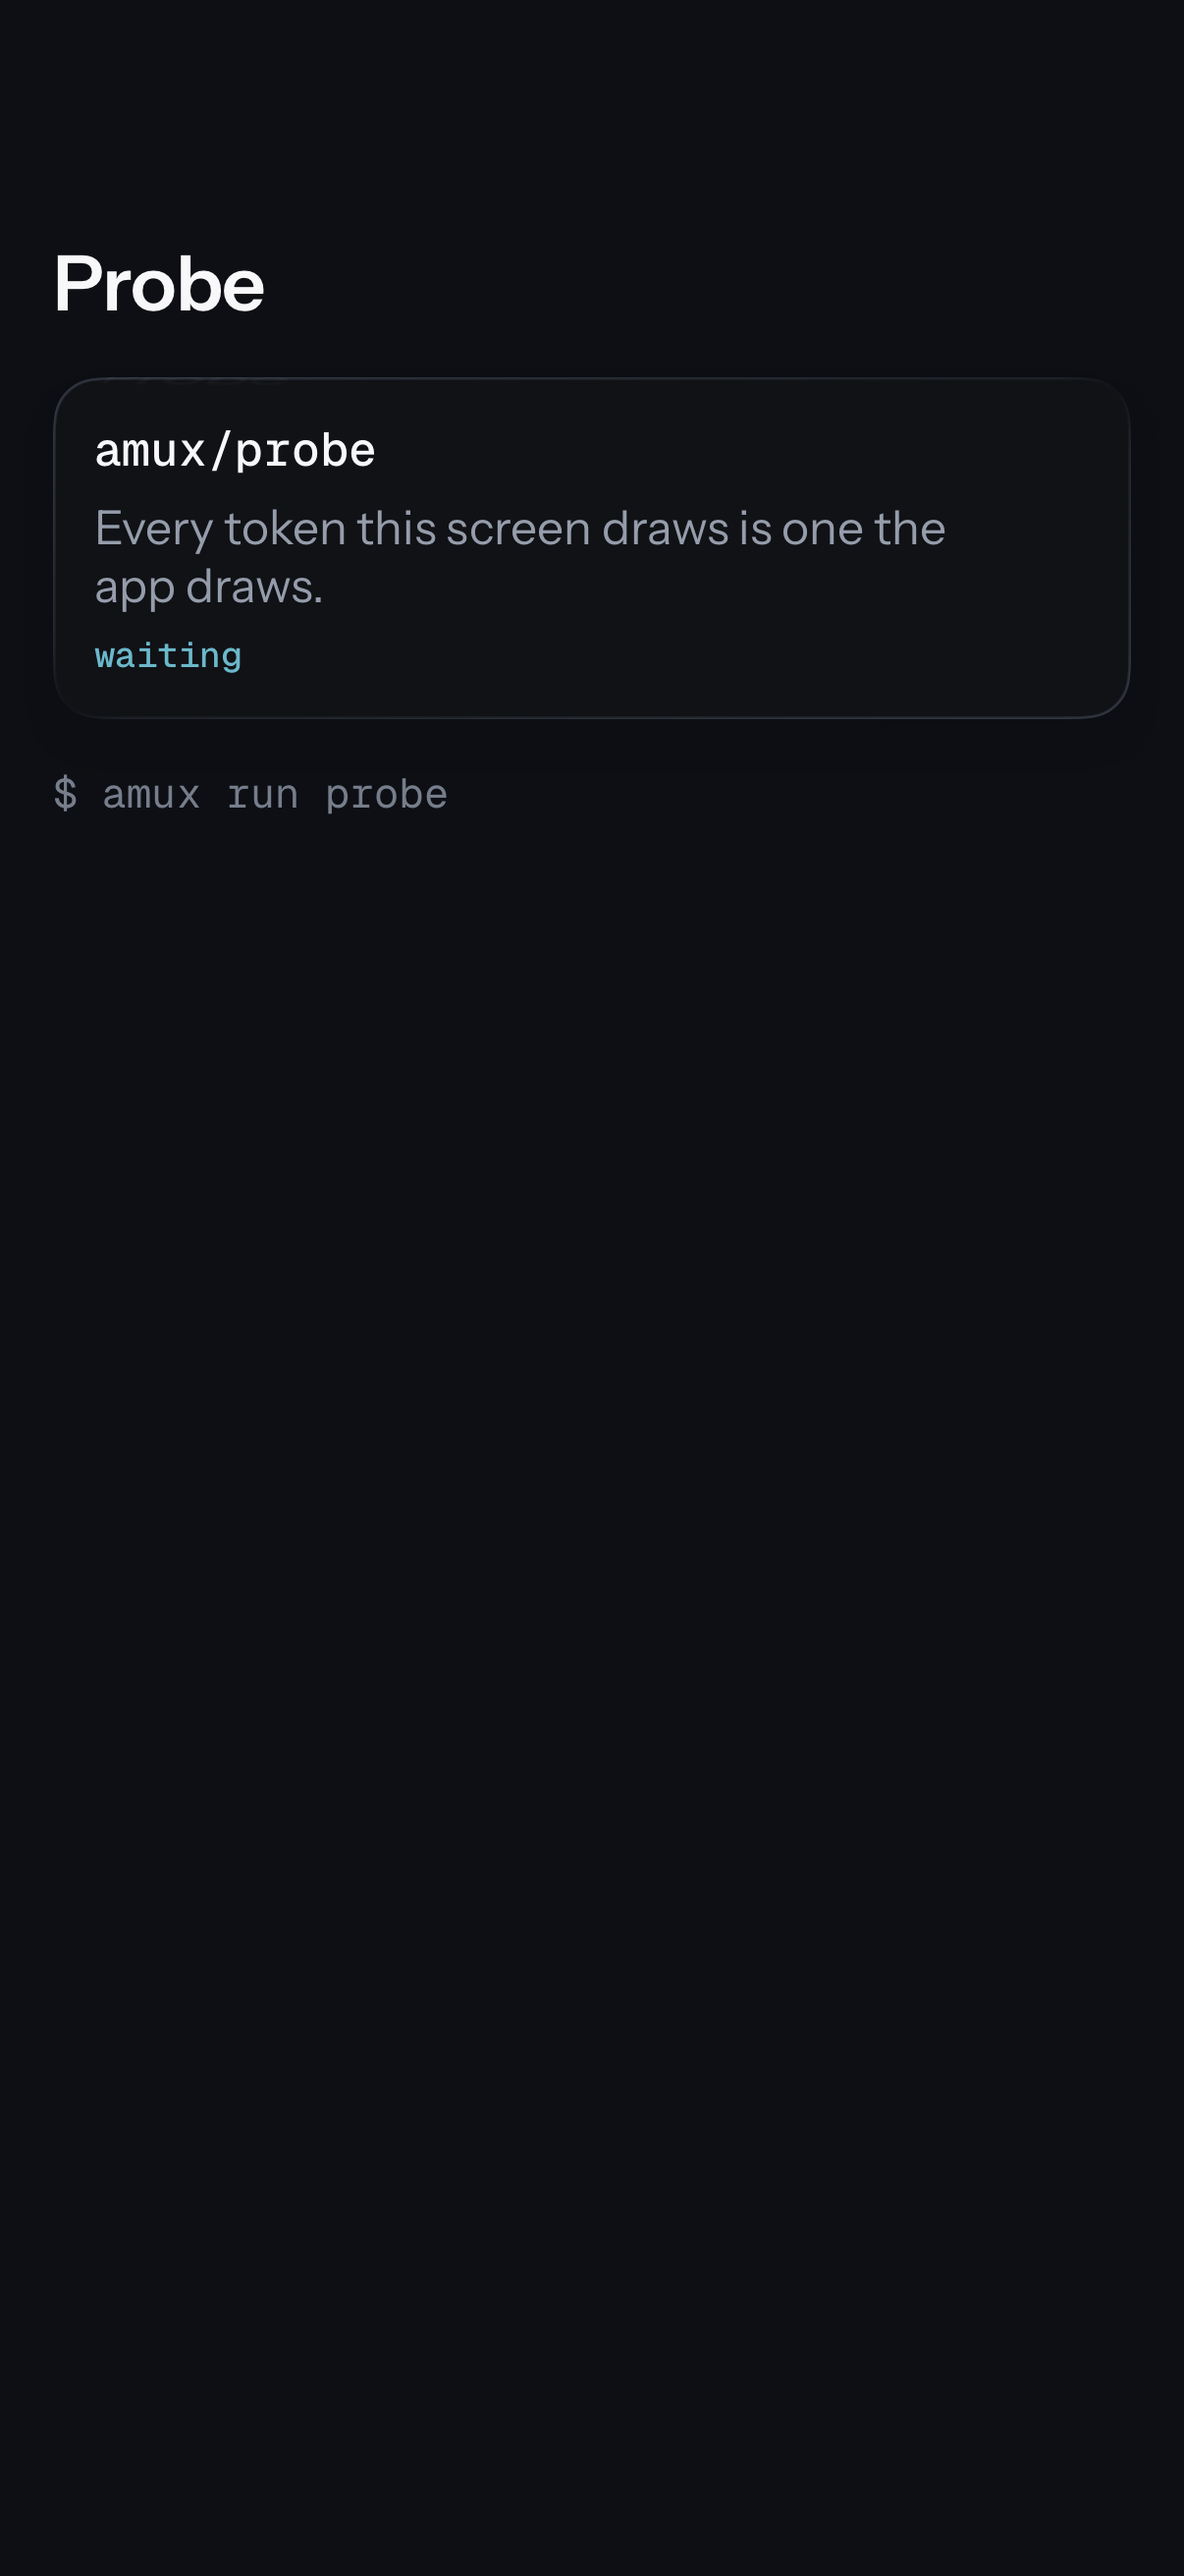
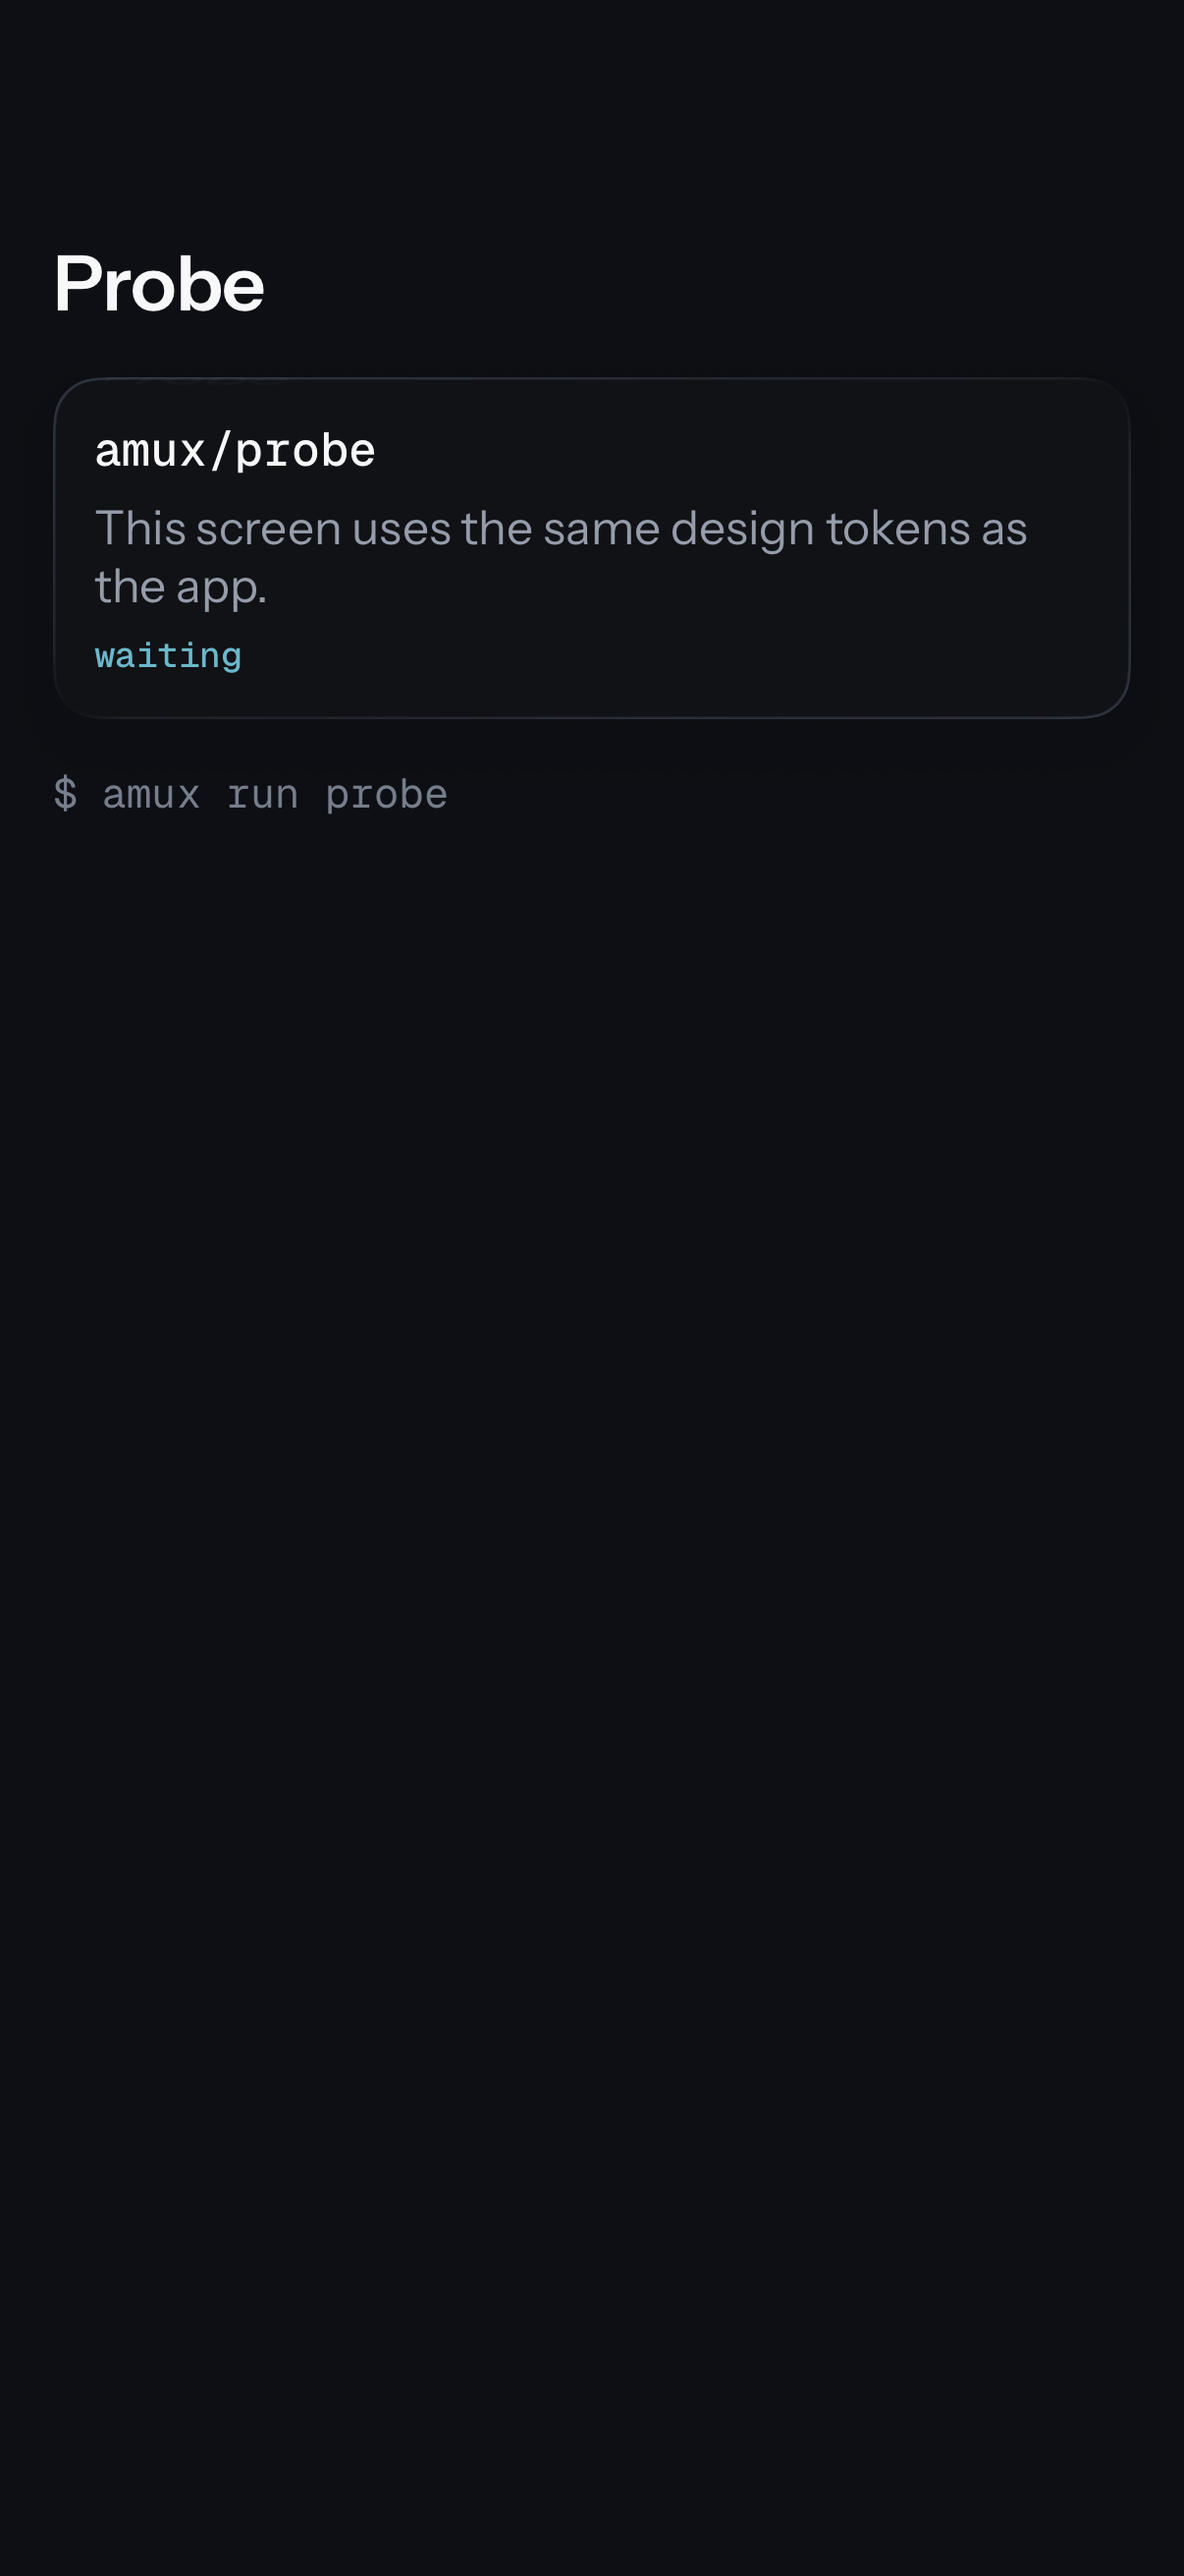
Clarify the capture probe subtitle
State that the probe uses the app's design tokens. Refresh both appearance goldens and the sample replay image for the deliberate copy change.

Verify light and dark probe goldens and the sample report replay through wt; projected replay state remains unchanged.

Changed region(s): [[0.092, 0.1854, 0.7977, 0.2471], [0.8284, 0.1854, 0.859, 0.2162]]

diff --git a/ios/Packages/AmuxFeatures/Sources/AmuxFeatures/ProbeScreen.swift b/ios/Packages/AmuxFeatures/Sources/AmuxFeatures/ProbeScreen.swift
@@ -27,7 +27,7 @@ public struct ProbeScreen: View {
                             .designFont(.identifier, design)
                             .foregroundStyle(design.ink.color)
                             .identified("probe.identifier")
-                        Text("Every token this screen draws is one the app draws.")
+                        Text("This screen uses the same design tokens as the app.")
                             .designFont(.body, design)
                             .foregroundStyle(design.inkMuted.color)
                             .identified("probe.body")

diff --git a/DEVLOG.md b/DEVLOG.md
@@ -4,6 +4,12 @@ This file tracks significant development work, decisions made, and current state
 
 ---
 
+2026-09-05 — **Clearer probe copy.** The capture probe now says “This screen
+uses the same design tokens as the app.” Its light and dark screenshot
+baselines and the sample report's replay image reflect the new subtitle.
+Both probe goldens and the sample replay pass; the recorded projected state
+is unchanged.
+
 2026-09-05 — **Verification asks what exists.** Between milestones the branch's
 own check now runs the goldens over the screens the app can open
 (`wt run ios-goldens -- --built`): each is captured in both appearances and
